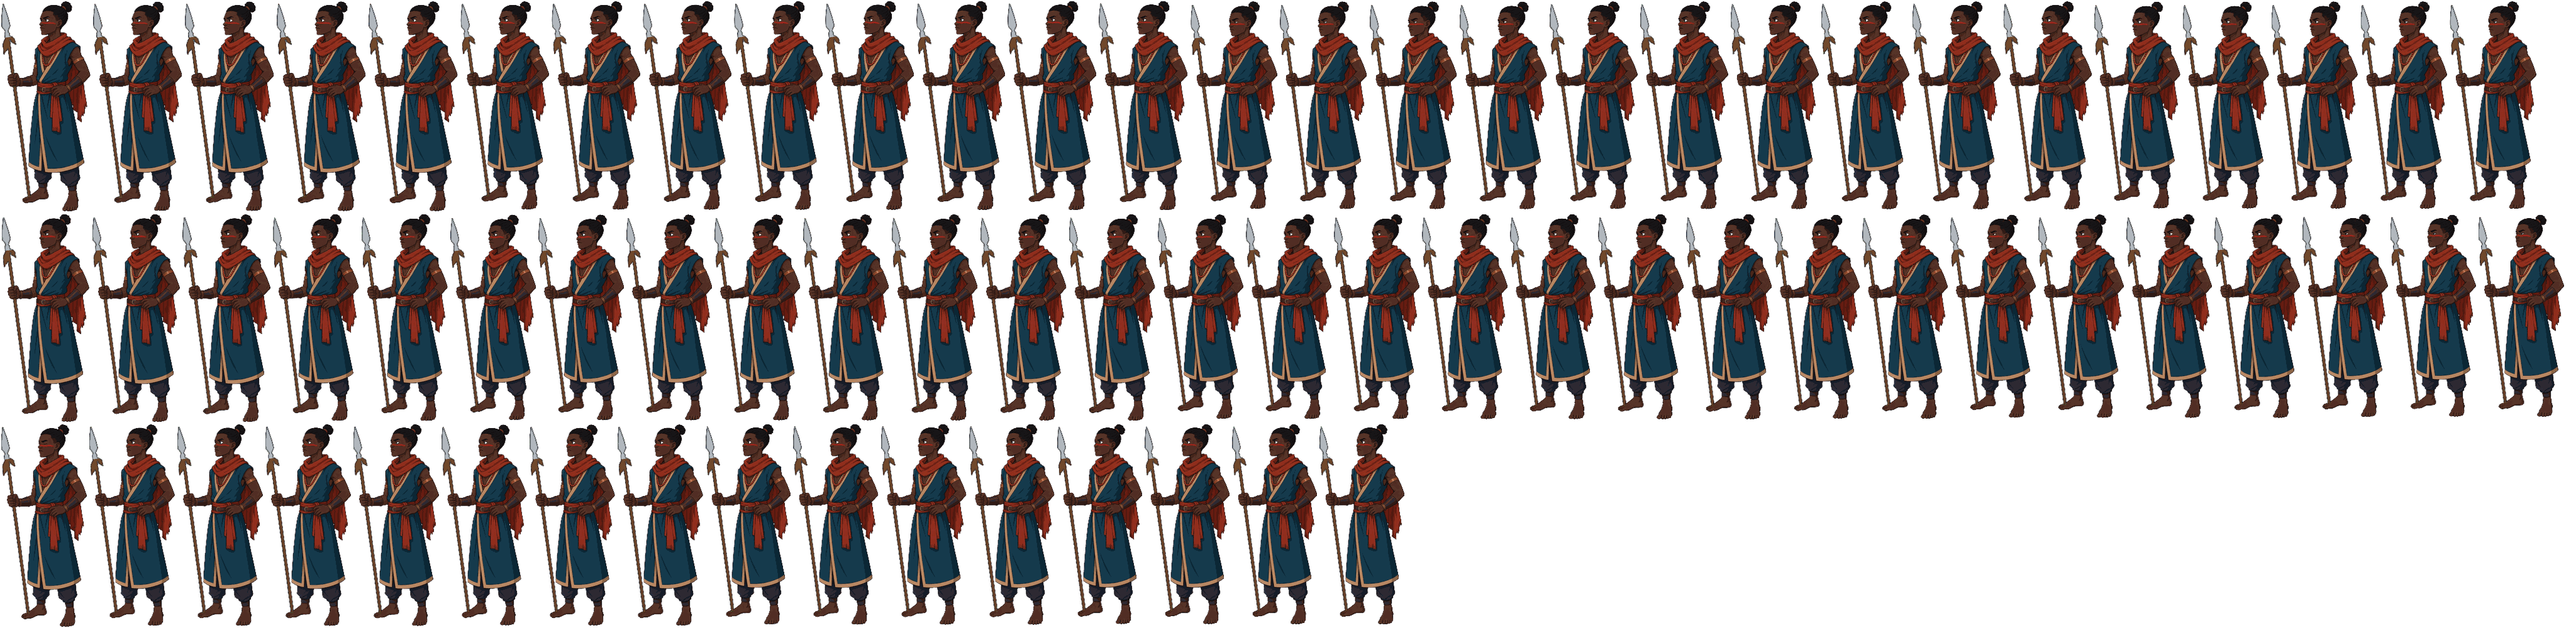
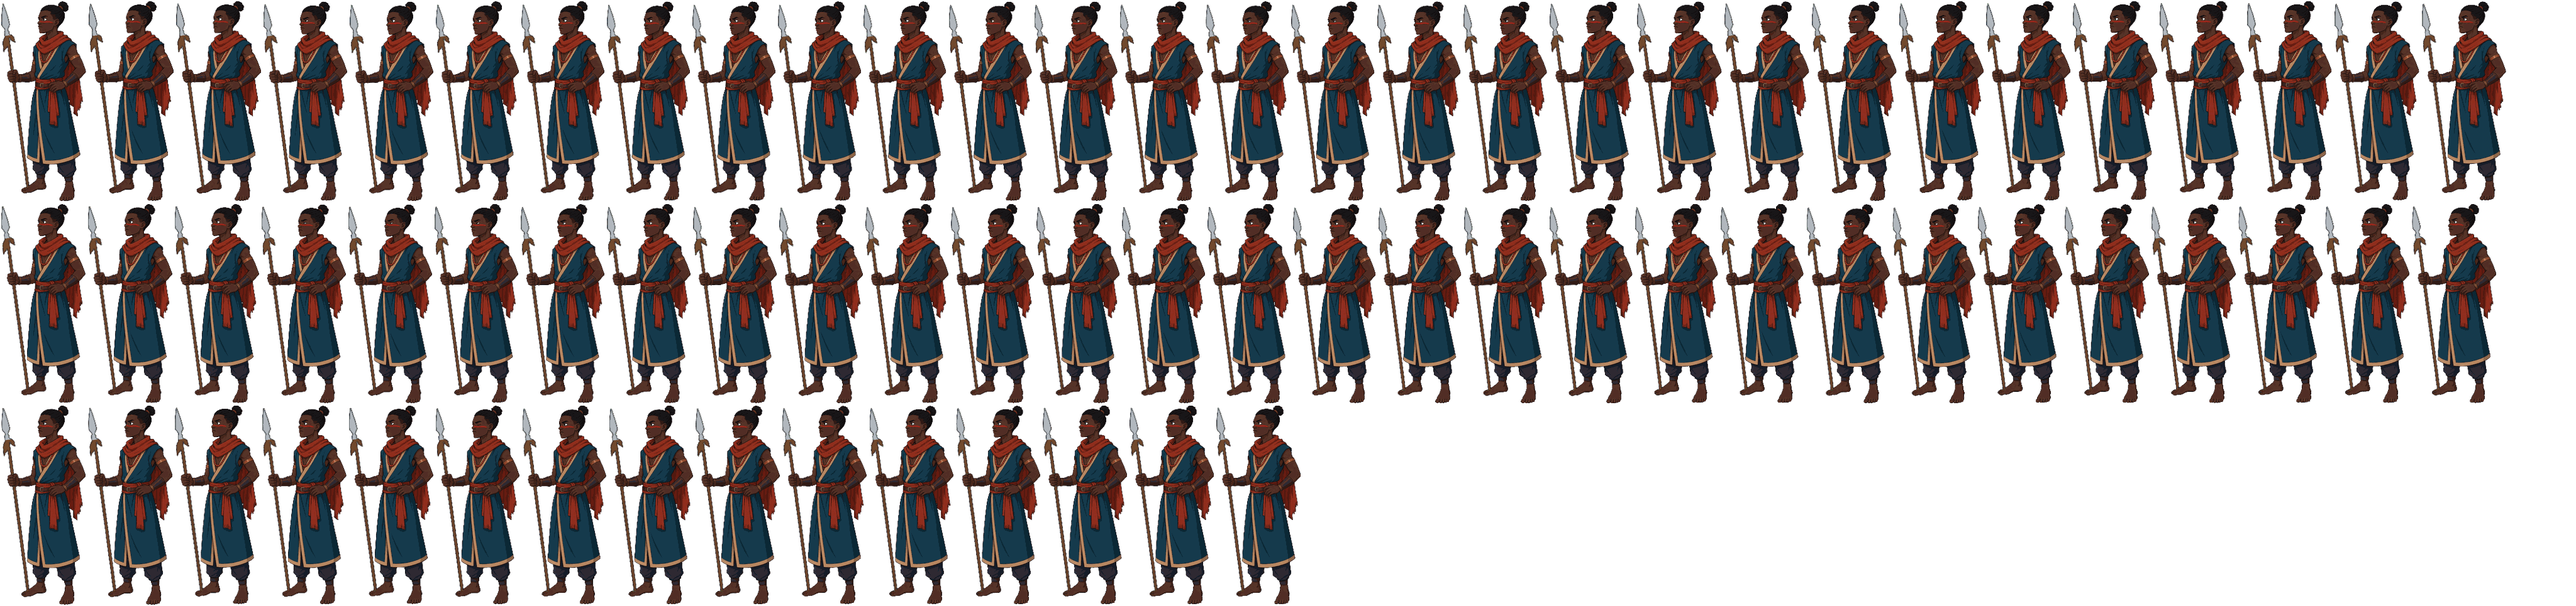
Gids: idle-zoom uit de Grok-clip rechtgezet, geen sprong meer naar de verteller
De idle werd over de clip 5-6% groter; elk frame nu teruggeschaald naar frame 0
(ZOOM_VAST in tools/gids_bouw.py), plus een optie om alleen een animatie te bouwen.

Claude-Session: https://claude.ai/code/session_01XPDva55zRfDXtCFYUkG3pe

diff --git a/tools/gids_bouw.py b/tools/gids_bouw.py
@@ -1,6 +1,7 @@
 # De gids van The First Hunt (design/tutorial/gids/): de Grok-clips van Tom (26/27-11-2026) naar spritebladen, en het
 # spoor van de mentor (design/tutorial/mentor_spoor.json) gekoppeld aan zijn eigen animaties.
-#   python3 tools/gids_bouw.py
+#   python3 tools/gids_bouw.py            alles
+#   python3 tools/gids_bouw.py idle       alleen die animatie(s), de rest van gids.json en het spoor blijven staan
 # Leest de mp4's uit design/tutorial/gids/bron/ en schrijft per animatie een blad (<anim>.png) en gids.json.
 #
 # Keyen: magenta weg met een smalle ramp (0,92 en 0,62 van de achtergrond-key), randen terugrekenen zonder de achtergrond,
@@ -52,6 +53,12 @@ KLEIN = os.path.join(ROOT, 'klein/design/tutorial/gids')
 STAP = {}                              # reserve: alleen elk zoveelste frame houden, bv. {'idle': 2} (nu niet nodig)
 SCHAAL = {'idle': 1, 'verteller': 1, 'rc': 0.8, 'jump_and_land': 1.72, 'grote_sprong': 0.85,
           'slowcrouch': 0.66, 'lowcrouch': 0.66, 'roll1': 0.68, 'roll2': 0.68, 'roll3': 0.69}
+# Clips waarin Grok langzaam inzoomt (27-11-2026): in de idle werd de gids over de clip 5 tot 6% groter (frame 0 641 px,
+# het eind 672 px; de hele figuur, niet rechter op staan). Omdat de idle heen en weer speelt zwol hij in het spel op en
+# kromp hij weer, en bij de wissel naar de verteller (die wel even groot blijft) sprong hij ineens 13 px kleiner. Hier
+# meet het script per frame de lijfhoogte, legt er een gladde kromme door (graad 2, zodat het ademen niet meetelt) en
+# schaalt elk frame terug naar de maat van het eerste.
+ZOOM_VAST = ('idle',)
 SPEER = {'staal': (178, 184, 190), 'staalDonker': (104, 110, 118), 'hout': (112, 72, 42), 'houtDonker': (70, 44, 26)}
 
 # de animaties: welke frames uit welke clip
@@ -160,18 +167,35 @@ def opslaan(blad, pad):
     blad.quantize(256, method=Image.Quantize.FASTOCTREE, dither=Image.Dither.NONE).save(pad, optimize=True)   # 256 kleuren, zoals Duka
 
 
-def bouw():
+def bouw(alleen=None):
+    """alleen: een lijst animaties om opnieuw te bouwen; de rest van gids.json (en het spoor) blijft dan staan. Kan alleen
+    als het aantal frames van die animaties gelijk blijft (het spoor wijst naar framenummers); draai daarna gids_glad.py."""
     os.makedirs(UIT, exist_ok=True); os.makedirs(KLEIN, exist_ok=True)
     f0 = LENGTE / IDLE_H
     info = {'lengte': LENGTE, 'px': round(1 / PIX, 6), 'anims': {}}
+    oud = json.load(open(os.path.join(UIT, 'gids.json'))) if alleen else None
     cache = {}; nvol = {}
     for naam, delen in ANIMS.items():
+        if alleen and naam not in alleen:
+            info['anims'][naam] = oud['anims'][naam]
+            continue
         cellen = []
         for clip, rng in delen:
             if clip not in cache:
                 cache[clip] = frames(clip, range(145))
             s = f0 * SCHAAL[clip] * PIX
+            zoom = {i: 1.0 for i in rng}
+            if clip in ZOOM_VAST:
+                hs = []
+                for i in rng:
+                    c, al, groen = key(cache[clip][i])
+                    ys = np.where((al > 0.5) & ~groen)[0]
+                    hs.append(ys.max() + 1 - ys.min())
+                kr = np.polyval(np.polyfit(np.arange(len(hs)), hs, 2), np.arange(len(hs)))
+                zoom = {i: kr[0] / kr[k] for k, i in enumerate(rng)}
+                print(f'{clip}: zoom van de clip rechtgezet, {min(zoom.values()):.3f} .. {max(zoom.values()):.3f}')
             for i in rng:
+                s = f0 * SCHAAL[clip] * PIX * zoom[i]
                 c, al, groen = key(cache[clip][i])
                 lijf = (al > 0.5) & ~groen
                 ys, xs = np.where(lijf)
@@ -195,8 +219,14 @@ def bouw():
         opslaan(verklein(blad, (bw + 1) // 2, (bh + 1) // 2), os.path.join(KLEIN, naam + '.png'))
         info['anims'][naam] = {'src': f'design/tutorial/gids/{naam}.png', 'n': len(cellen), 'stap': stap, 'f': fr}
         print(naam, len(cellen), 'blad', blad.size, round(bw * bh * 4 / 1048576, 1), 'MiB')
-    info['spoor'] = koppel(nvol)                                   # in frames van de volle reeks
-    if any(v['stap'] > 1 for v in info['anims'].values()):        # het spoor wijst naar frames van de volle reeks
+    if alleen:
+        for naam in alleen:
+            if info['anims'][naam]['n'] != oud['anims'][naam]['n']:
+                raise SystemExit(f'{naam}: aantal frames veranderd, bouw alles opnieuw (zonder argumenten)')
+        info['spoor'] = oud['spoor']
+    else:
+        info['spoor'] = koppel(nvol)                               # in frames van de volle reeks
+    if not alleen and any(v['stap'] > 1 for v in info['anims'].values()):   # het spoor wijst naar frames van de volle reeks
         for rij in info['spoor']['segs']:
             for k, e in enumerate(rij):
                 if e and e[1] >= 0: rij[k] = [e[0], e[1] // info['anims'][e[0]]['stap']]
@@ -270,4 +300,4 @@ def koppel(nvol):
 
 
 if __name__ == '__main__':
-    bouw()
+    bouw(sys.argv[1:] or None)                                     # bv. python3 tools/gids_bouw.py idle

diff --git a/notities/tutorial.md b/notities/tutorial.md
@@ -56,6 +56,12 @@ zegt `design/tutorial/gids/gids.json` welk frame van de gids erbij hoort. Kop in
 - Schaal: per clip geijkt op het hoofd (`SCHAAL`), de gids staand 1,2 x Amir (ongeveer bandietmaat).
 - Stof en geluid: de renlus van Amir (`amirren.mp3`), zachter naarmate hij verder van je af is; stof bij de afzet en de
   landing; bij de rol het rolgeluid en het stof van `ROL_STOF`.
+- **De idle zoomde in (27-11-2026).** In de Grok-clip werd de gids van het eerste tot het laatste idle-frame 5 tot 6%
+  groter (de hele figuur). De idle speelt heen en weer, dus hij zwol op en kromp weer, en bij de wissel naar de verteller
+  (die even groot blijft) sprong hij tot 13 px kleiner. `ZOOM_VAST` in `gids_bouw.py` meet per frame de lijfhoogte, legt
+  er een gladde kromme door en schaalt elk frame terug naar frame 0. Nu staan idle en verteller allebei op 316 tot 320 px
+  in het vel. Alleen een animatie opnieuw bouwen: `python3 tools/gids_bouw.py idle` (het spoor blijft staan), dan
+  `tools/gids_glad.py`.
 - Nog niet gebruikt: `gahurk`, `hurk_en_omkijk`, `hurkenwenk` (voor de panter-sluiples) en `deelsbruikbaar_vertellen`.
 - Open: de speer los (nu omgekleurd in de frames), een klim voor de richel (hij springt nu), een rustig loopje.
 
